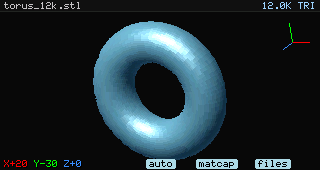
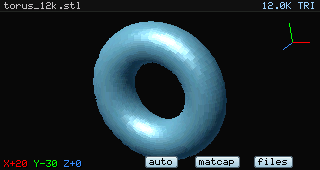
Give the bottom buttons a raised 3D look
Replace the flat pills with 12px skeuomorphic keys: dark rim, vertical face
gradient, top specular hem and a soft drop shadow. The help panel shrinks
slightly so it does not overlap the taller buttons. Refresh screenshots.

Changed region(s): [[0.7812, 0.9118, 0.9375, 1.0], [0.5938, 0.9118, 0.75, 1.0], [0.4375, 0.9118, 0.5625, 1.0]]

diff --git a/src/ui.cpp b/src/ui.cpp
@@ -63,6 +63,32 @@ void fillRoundRect(Canvas& canvas, int x, int y, int w, int h, int radius,
     }
 }
 
+void fillRoundRectGradient(Canvas& canvas, int x, int y, int w, int h,
+                           int radius, uint16_t top, uint16_t bottom) {
+    if (w <= 0 || h <= 0) return;
+    radius = std::max(0, std::min(radius, std::min(w / 2, h / 2)));
+
+    for (int row = 0; row < h; ++row) {
+        int inset = 0;
+        if (row < radius) {
+            const float dy = radius - (row + 0.5f);
+            inset = radius - static_cast<int>(std::lround(
+                                 std::sqrt(radius * radius - dy * dy)));
+        } else if (row >= h - radius) {
+            const float dy = (row + 0.5f) - (h - radius);
+            inset = radius - static_cast<int>(std::lround(
+                                 std::sqrt(radius * radius - dy * dy)));
+        }
+        const int row_width = w - 2 * inset;
+        if (row_width <= 0) continue;
+        const float t = h > 1 ? static_cast<float>(row) /
+                                    static_cast<float>(h - 1)
+                              : 0.0f;
+        canvas.fillRect(x + inset, y + row, row_width, 1,
+                        lerp565(top, bottom, t));
+    }
+}
+
 void fillRoundRectBlend(Canvas& canvas, int x, int y, int w, int h,
                         int radius, uint16_t color, float alpha) {
     if (w <= 0 || h <= 0) return;
@@ -103,10 +129,30 @@ void drawSoftShadow(Canvas& canvas, int px, int py, int w, int h,
 
 void drawLabelPill(Canvas& canvas, int center_x, int y, int height,
                    const std::string& label, uint16_t background) {
-    const int width = canvas.textWidth(label) + 6;
+    const int text_width = canvas.textWidth(label);
+    const int width = text_width + 9;
     const int x = center_x - width / 2;
-    fillRoundRect(canvas, x, y, width, height, 2, background);
-    canvas.text(x + 3, y + (height - 8) / 2, label, Theme::kPillText);
+    const int radius = 3;
+
+    // Drop shadow and a dark rim make the key look raised off the render.
+    fillRoundRectBlend(canvas, x + 1, y + 2, width - 1, height, radius,
+                       0x0000, 0.28f);
+    fillRoundRectBlend(canvas, x, y + 1, width, height, radius, 0x0000,
+                       0.18f);
+
+    const uint16_t rim = lerp565(background, 0x0000, 0.55f);
+    const uint16_t top = lerp565(background, 0xFFFF, 0.45f);
+    const uint16_t bottom = lerp565(background, 0x0000, 0.12f);
+
+    fillRoundRect(canvas, x, y, width, height, radius, rim);
+    fillRoundRectGradient(canvas, x + 1, y + 1, width - 2, height - 2,
+                          radius - 1, top, bottom);
+    // Specular hem along the top edge of the face.
+    fillRoundRect(canvas, x + 2, y + 1, width - 4, 1, 0,
+                  lerp565(top, 0xFFFF, 0.5f));
+
+    canvas.text(x + (width - text_width) / 2, y + (height - 8 + 1) / 2, label,
+                Theme::kPillText);
 }
 
 std::string humanSize(uint64_t bytes) {
@@ -218,8 +264,8 @@ void drawUi(Canvas& canvas, const UiState& state) {
     draw_axis('Z', static_cast<int>(std::lround(state.camera.roll_deg)),
               0x3C7F);
 
-    const int pill_h = 10;
-    const int pill_y = hint_y + (kHintHeight - pill_h) / 2;
+    const int pill_h = 12;
+    const int pill_y = hint_y - 2;
 
     // Auto-rotate toggle aligned with the "6" key (x=161).
     std::string auto_label = "auto";
@@ -266,7 +312,7 @@ void drawUi(Canvas& canvas, const UiState& state) {
 
     // Help overlay: rounded elevated panel with a drop shadow.
     const int panel_w = 218;
-    const int panel_h = 148;
+    const int panel_h = 142;
     const int radius = 8;
     const int px = (w - panel_w) / 2;
     const int py = (h - panel_h) / 2;

diff --git a/docs/DESIGN.md b/docs/DESIGN.md
@@ -11,7 +11,7 @@
 - M3 complete: in-app file browser, remembered last directory, file sizes,
   modal loading popup with progress and load-error messages
 - M4 in progress: EDGES (feature + silhouette lines), MATCAP shading and a
-  render-style pill; decimation, quality modes and packaging assets remain
+  render-style button; decimation, quality modes and packaging assets remain
 - Device measurement (23,776 triangles): edges 17.8 ms/frame (~56 fps),
   matcap 10.1 ms/frame (~99 fps)
 
@@ -164,7 +164,7 @@ R            reset view and center
 7            cycle solid / edges / matcap / wireframe
 6            cycle auto-rotate off / X pitch / Y yaw / Z horizontal-axis roll;
              hold 0.6 s to stop auto-rotate
-8            open the file list (under the on-screen pill)
+8            open the file list (under the on-screen button)
 S            screenshot to ~/kanstl_screenshot_NNN.png
 H            help overlay
 Esc (3s)     hold to exit; an on-screen progress prompt is shown
@@ -178,11 +178,12 @@ The viewer shows a red/green/blue XYZ orientation gizmo in the top-right
 corner of the 3D viewport, with no frame or arrowheads, drawn above the model
 and over the UI overlays.
 
-The bottom edge has no bar background: the axis readout and three pills float
-directly over the render. The axis text gets a one-pixel dark drop shadow for
+The bottom edge has no bar background: the axis readout and three raised
+buttons float directly over the render. The axis text gets a one-pixel dark drop shadow for
 contrast. A tap on `6` cycles the auto modes on key release; holding it for
-0.6 s stops auto-rotate while the key is still down. The pills are an
-auto-rotate toggle at x=161 (`auto`, `auto x`,
+0.6 s stops auto-rotate while the key is still down. The buttons are drawn
+with a dark rim, a vertical face gradient, a top specular hem and a drop
+shadow. The auto-rotate toggle sits at x=161 (`auto`, `auto x`,
 `auto y`, `auto z`; mint green when running) under the `6` key, a render-style
 button at x=217 (`solid`, `edges`, `matcap` or `wire`) under the `7` key, and a
 `files` button at x=273 under the `8` key. `8` opens the file browser. The 3D

diff --git a/README.md b/README.md
@@ -23,7 +23,7 @@ wireframe toggle, rotate/zoom, and an in-app file browser.
 - Solid flat shading with a z-buffer and backface culling
 - EDGES mode: solid faces with dark crease lines and a bright silhouette
 - MATCAP mode: metallic normal-map shading with a specular highlight
-- `7` cycles solid / edges / matcap / wireframe; the bottom pill shows the
+- `7` cycles solid / edges / matcap / wireframe; the bottom button shows the
   current style
 - `6` cycles auto-rotate off / X pitch / Y yaw / Z model-axis roll (the Z
   axis is held horizontal); the tab turns mint green when active, and holding
@@ -35,8 +35,9 @@ wireframe toggle, rotate/zoom, and an in-app file browser.
   the model and overlays
 - `8` opens the file list; `Esc` is exit-only (hold 3 seconds)
 - Pixel-art UI using a 6x8 bitmap font, no LVGL dependency
-- Light-blue "files" pill in the bottom overlay, aligned with the physical 8 key
-- Bottom info and pills float over the render with no bar background
+- Raised light-blue "files" button in the bottom overlay, aligned with the
+  physical 8 key
+- Bottom info and raised buttons float over the render with no bar background
 - Offscreen PNG rendering for development without a device
 - Built-in benchmark mode
 - Runs as the normal `pi` user under APPLaunch
@@ -121,7 +122,7 @@ disabled past 1,000,000 triangles. Both are noted with a toast.
 
 ## Render styles
 
-`7` cycles solid → edges → matcap → wireframe, and the bottom pill shows the
+`7` cycles solid → edges → matcap → wireframe, and the bottom button shows the
 active style. Styles that need more memory or time than the current model
 allows are skipped.
 
